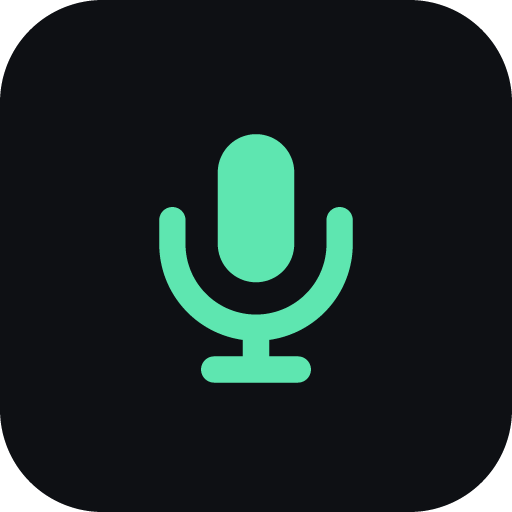
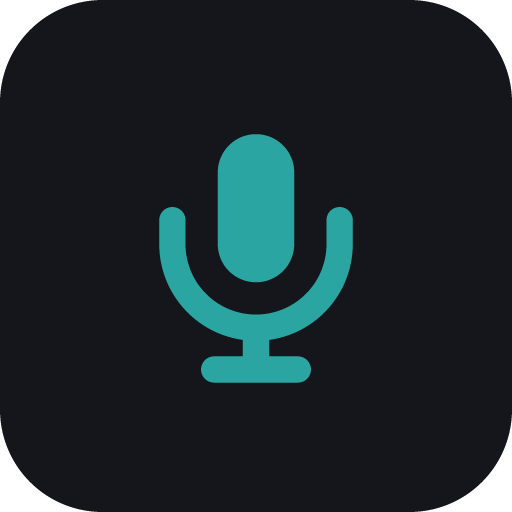
feat(ui): adopt the stefaneicher.github.io palette in the desktop app

Changed region(s): [[0.3125, 0.4062, 0.6875, 0.75], [0.4062, 0.25, 0.5938, 0.5625]]

diff --git a/src/renderer/settings/Settings.svelte b/src/renderer/settings/Settings.svelte
@@ -365,8 +365,11 @@
 <style>
   :global(html[data-view='settings']),
   :global(html[data-view='settings'] body) {
-    background: var(--vb-light-bg);
-    color: #1d2128;
+    background:
+      radial-gradient(900px 600px at 85% 5%, rgba(42, 165, 161, 0.14), transparent 60%),
+      radial-gradient(700px 500px at 0% 60%, rgba(36, 94, 113, 0.18), transparent 60%),
+      var(--vb-ink);
+    color: var(--vb-text);
     height: 100%;
   }
   .settings {
@@ -379,11 +382,12 @@
     flex-direction: column;
     gap: 2px;
     padding: 20px 12px;
-    border-right: 1px solid #e6e6e1;
-    background: #f3f3ef;
+    border-right: 1px solid var(--vb-line);
+    background: rgba(29, 29, 39, 0.7);
   }
   .brand {
-    font: 600 18px var(--font-title);
+    font: 800 18px var(--font-ui);
+    letter-spacing: -0.02em;
     padding: 0 10px 16px;
   }
   nav button {
@@ -393,30 +397,31 @@
     border-radius: 8px;
     background: transparent;
     font: 500 14px var(--font-ui);
-    color: #3b414c;
+    color: var(--vb-text-2);
     cursor: pointer;
   }
   nav button.active {
-    background: #fff;
-    color: var(--vb-light-accent);
-    box-shadow: 0 0 0 1px #e6e6e1;
+    background: var(--vb-ink-3);
+    color: var(--vb-dictate);
+    box-shadow: 0 0 0 1px var(--vb-line);
   }
   .version {
     margin-top: auto;
     padding: 10px;
     font-size: 12px;
-    color: #6b7280;
+    color: var(--vb-dim);
   }
   main {
     padding: 32px 40px;
     max-width: 760px;
   }
   h1 {
-    font: 600 24px var(--font-title);
+    font: 800 28px var(--font-ui);
+    letter-spacing: -0.03em;
     margin: 0 0 6px;
   }
   .lead {
-    color: #4b5260;
+    color: var(--vb-text-2);
     margin: 0 0 24px;
     line-height: 1.5;
   }
@@ -426,7 +431,7 @@
     justify-content: space-between;
     gap: 16px;
     padding: 14px 0;
-    border-bottom: 1px solid #ecece7;
+    border-bottom: 1px solid var(--vb-line);
   }
   .field.column {
     flex-direction: column;
@@ -438,22 +443,23 @@
   }
   .hint {
     font-size: 13px;
-    color: #6b7280;
+    color: var(--vb-text-3);
   }
   input:not([type='checkbox']),
   select,
   textarea {
     font: 14px var(--font-ui);
     padding: 8px 10px;
-    border: 1px solid #d6d6d0;
-    border-radius: 8px;
-    background: #fff;
+    border: 1px solid var(--vb-line);
+    border-radius: 10px;
+    background: var(--vb-ink-2);
+    color: var(--vb-text);
     min-width: 240px;
   }
   input[type='checkbox'] {
     width: 18px;
     height: 18px;
-    accent-color: var(--vb-light-accent);
+    accent-color: var(--vb-dictate);
   }
   .row {
     display: flex;
@@ -467,23 +473,26 @@
     font: 500 13px var(--font-mono);
     padding: 8px 14px;
     border-radius: 8px;
-    border: 1px solid #d6d6d0;
-    background: #fff;
+    border: 1px solid var(--vb-line);
+    background: var(--vb-ink-2);
+    color: var(--vb-text);
     cursor: pointer;
     min-width: 160px;
   }
   .btn {
     font: 500 14px var(--font-ui);
     padding: 9px 16px;
-    border-radius: 18px;
-    border: 1px solid var(--vb-light-accent);
-    background: var(--vb-light-accent);
-    color: #fff;
+    border-radius: 12px;
+    border: 1px solid var(--vb-dictate);
+    background: var(--vb-dictate);
+    color: var(--vb-on-accent);
+    font-weight: 600;
     cursor: pointer;
   }
   .btn.ghost {
-    background: transparent;
-    color: var(--vb-light-accent);
+    background: var(--vb-ink-2);
+    border-color: var(--vb-line);
+    color: var(--vb-text);
   }
   .btn:disabled {
     opacity: 0.5;
@@ -498,25 +507,26 @@
   }
   .notice {
     font-size: 13px;
-    color: var(--vb-light-accent);
+    color: var(--vb-dictate);
   }
   .hint.bad {
-    color: #b42318;
+    color: #ff8a8e;
   }
   .qr {
     display: block;
     margin: 12px 0;
     border-radius: 8px;
-    border: 1px solid #e6e6e1;
+    border: 1px solid var(--vb-line);
     image-rendering: pixelated;
   }
   .notice.bad {
-    color: #b42318;
+    color: #ff8a8e;
   }
   code {
     font-family: var(--font-mono);
     font-size: 13px;
-    background: #efefea;
+    background: var(--vb-ink-3);
+    color: var(--vb-agent);
     padding: 1px 5px;
     border-radius: 4px;
   }
@@ -526,7 +536,7 @@
     gap: 10px;
   }
   dt {
-    color: #6b7280;
+    color: var(--vb-text-3);
   }
   dd {
     margin: 0;

diff --git a/src/renderer/styles.css b/src/renderer/styles.css
@@ -1,19 +1,20 @@
 :root {
-  --vb-ink: #0e1014;
-  --vb-ink-2: #15181e;
-  --vb-ink-3: #181b22;
-  --vb-line: rgba(255, 255, 255, 0.09);
-  --vb-text: #f2f4f7;
-  --vb-text-2: #c5cbd6;
-  --vb-text-3: #9aa3b2;
-  --vb-dictate: #5ee6b0;
-  --vb-agent: #ffb547;
+  --vb-ink: #15151c;
+  --vb-ink-2: #1d1d27;
+  --vb-ink-3: #24242f;
+  --vb-line: #2e2e3b;
+  --vb-text: #edf6f3;
+  --vb-text-2: #c6cad3;
+  --vb-text-3: #9a9cab;
+  --vb-dictate: #2aa5a1;
+  --vb-agent: #a3d858;
   --vb-rec: #ff5a5f;
-  --vb-light-bg: #fafaf8;
-  --vb-light-accent: #0f7a57;
+  --vb-blue: #245e71;
+  --vb-on-accent: #0d1716;
+  --vb-dim: #686a7a;
   --vb-shadow: 0 24px 70px rgba(0, 0, 0, 0.6);
   --font-ui: 'Inter', system-ui, sans-serif;
-  --font-title: 'Space Grotesk', 'Inter', sans-serif;
+  --font-title: 'Inter', system-ui, sans-serif;
   --font-mono: 'JetBrains Mono', ui-monospace, monospace;
 }
 
@@ -59,7 +60,7 @@ html:not([data-view='settings']) body {
 .chip {
   font-size: 12px;
   font-weight: 500;
-  color: var(--vb-ink);
+  color: var(--vb-on-accent);
   padding: 5px 9px;
   border-radius: 14px;
   white-space: nowrap;
@@ -71,7 +72,7 @@ html:not([data-view='settings']) body {
 
 button.vb-btn {
   font: 500 13px var(--font-ui);
-  border-radius: 18px;
+  border-radius: 12px;
   padding: 8px 14px;
   border: 1px solid var(--vb-line);
   background: transparent;
@@ -81,7 +82,7 @@ button.vb-btn {
 
 button.vb-btn.primary {
   border-color: transparent;
-  color: var(--vb-ink);
+  color: var(--vb-on-accent);
 }
 
 button.vb-btn:hover {

diff --git a/src/renderer/overlays/Popup.svelte b/src/renderer/overlays/Popup.svelte
@@ -41,7 +41,7 @@
         <span class="chip" style:background="var(--vb-agent)">{rec.hotkeyLabel}</span>
       </div>
       <div class="meta">
-        <span>Copilot CLI · {live.length} {live.length === 1 ? 'Session' : 'Sessions'}</span>
+        <span>Agents · {live.length} {live.length === 1 ? 'Session' : 'Sessions'}</span>
         <span>Profil {rec.profile}</span>
       </div>
 
@@ -171,8 +171,8 @@
     background: rgba(255, 255, 255, 0.05);
   }
   .row.sel {
-    background: rgba(255, 181, 71, 0.14);
-    box-shadow: inset 0 0 0 1px rgba(255, 181, 71, 0.55);
+    background: rgba(163, 216, 88, 0.12);
+    box-shadow: inset 0 0 0 1px rgba(163, 216, 88, 0.5);
   }
   .row.gone {
     cursor: default;
@@ -213,7 +213,7 @@
   .target {
     font-size: 11px;
     font-weight: 600;
-    color: var(--vb-ink);
+    color: var(--vb-on-accent);
     background: var(--vb-agent);
     padding: 3px 8px;
     border-radius: 10px;
@@ -237,10 +237,10 @@
     background: var(--vb-ink-2);
     border-top: 1px solid rgba(255, 255, 255, 0.07);
     font-size: 12px;
-    color: #aeb5c2;
+    color: var(--vb-text-3);
   }
   .release {
     margin-left: auto;
-    color: #ffcb80;
+    color: var(--vb-agent);
   }
 </style>

diff --git a/src/renderer/main.ts b/src/renderer/main.ts
@@ -1,7 +1,7 @@
 import '@fontsource/inter/400.css';
 import '@fontsource/inter/500.css';
 import '@fontsource/inter/600.css';
-import '@fontsource/space-grotesk/600.css';
+import '@fontsource/inter/800.css';
 import '@fontsource/jetbrains-mono/400.css';
 import './styles.css';
 import { mount, type Component } from 'svelte';

diff --git a/src/main/windows.ts b/src/main/windows.ts
@@ -145,7 +145,7 @@ export function createSettingsWindow(): BrowserWindow {
     minHeight: 520,
     show: false,
     title: 'Voice-Bridge – Einstellungen',
-    backgroundColor: '#FAFAF8',
+    backgroundColor: '#15151c',
     autoHideMenuBar: true,
     webPreferences: secureWebPreferences,
   });

diff --git a/src/renderer/overlays/Toast.svelte b/src/renderer/overlays/Toast.svelte
@@ -233,7 +233,7 @@
     height: 20px;
     border-radius: 50%;
     font-size: 12px;
-    color: var(--vb-ink);
+    color: var(--vb-on-accent);
     flex: none;
   }
   .badge {
